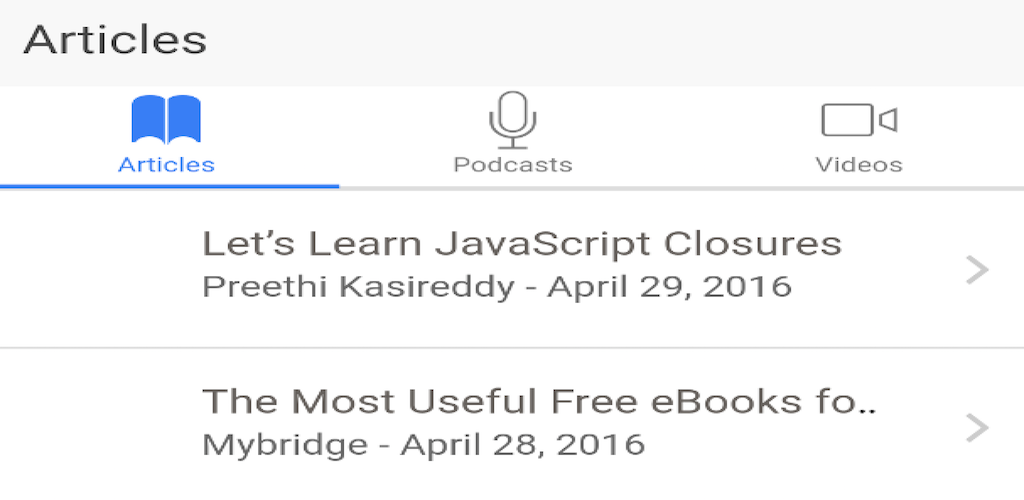
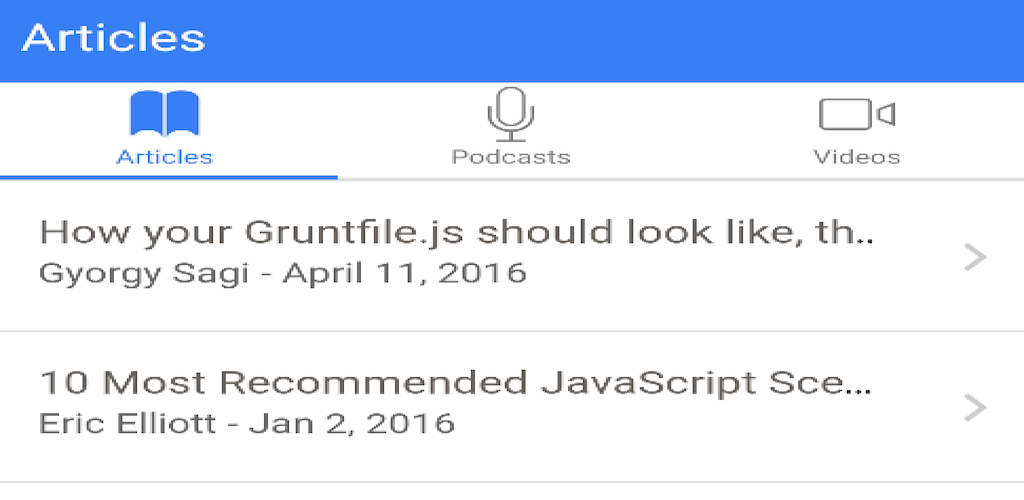
Some cleanup work

diff --git a/www/js/app.js b/www/js/app.js
@@ -56,9 +56,6 @@ angular.module('jsnews', ['ionic', 'ngCordova', 'jsnews.controllers', 'jsnews.se
 .config(function($stateProvider, $urlRouterProvider) {
 
   // Ionic uses AngularUI Router which uses the concept of states
-  // Learn more here: https://github.com/angular-ui/ui-router
-  // Set up the various states which the app can be in.
-  // Each state's controller can be found in controllers.js
   $stateProvider
 
   // setup an abstract state for the tabs directive
@@ -70,46 +67,37 @@ angular.module('jsnews', ['ionic', 'ngCordova', 'jsnews.controllers', 'jsnews.se
 
   // Each tab has its own nav history stack:
 
-  .state('tab.dash', {
-    url: '/dash',
+  .state('tab.articles', {
+    url: '/articles',
     views: {
-      'tab-dash': {
-        templateUrl: 'templates/tab-dash.html',
+      'tab-articles': {
+        templateUrl: 'templates/tab-articles.html',
         controller: 'IndexController'
       }
     }
   })
 
-  .state('tab.chats', {
-      url: '/chats',
+  .state('tab.podcasts', {
+      url: '/podcasts',
       views: {
-        'tab-chats': {
-          templateUrl: 'templates/tab-chats.html',
+        'tab-podcasts': {
+          templateUrl: 'templates/tab-podcasts.html',
           controller: 'IndexController'
         }
       }
     })
-    .state('tab.chat-detail', {
-      url: '/chats/:chatId',
-      views: {
-        'tab-chats': {
-          templateUrl: 'templates/chat-detail.html',
-          controller: 'ChatDetailCtrl'
-        }
-      }
-    })
 
-  .state('tab.account', {
-    url: '/account',
+  .state('tab.videos', {
+    url: '/videos',
     views: {
-      'tab-account': {
-        templateUrl: 'templates/tab-account.html',
+      'tab-videos': {
+        templateUrl: 'templates/tab-videos.html',
         controller: 'IndexController'
       }
     }
   });
 
   // if none of the above states are matched, use this as the fallback
-  $urlRouterProvider.otherwise('/tab/dash');
+  $urlRouterProvider.otherwise('/tab/articles');
 
 });

diff --git a/www/index.html b/www/index.html
@@ -9,11 +9,6 @@
     <link href="lib/ionic/css/ionic.css" rel="stylesheet">
     <link href="css/style.css" rel="stylesheet">
 
-    <!-- IF using Sass (run gulp sass first), then uncomment below and remove the CSS includes above
-    <link href="css/ionic.app.css" rel="stylesheet">
-    -->
-
-    <!-- ionic/angularjs js -->
     <script src="lib/ionic/js/ionic.bundle.js"></script>
     <script src="lib/angular-resource/angular-resource.min.js"></script>
     <script src="lib/ngCordova/dist/ng-cordova.js"></script>
@@ -21,24 +16,19 @@
     <!-- cordova script (this will be a 404 during development) -->
     <script src="cordova.js"></script>
 
-    <!-- your app's js -->
+    <!-- app's js -->
     <script src="js/app.js"></script>
     <script src="js/controllers.js"></script>
     <script src="js/services.js"></script>
   </head>
+
   <body ng-app="jsnews">
-    <!--
-      The nav bar that will be updated as we navigate between views.
-    -->
+
     <ion-nav-bar class="bar bar-header bar-positive bar-stable">
       <ion-nav-back-button>
       </ion-nav-back-button>
     </ion-nav-bar>
-    <!--
-      The views will be rendered in the <ion-nav-view> directive below
-      Templates are in the /templates folder (but you could also
-      have templates inline in this html file if you'd like).
-    -->
+
     <ion-nav-view></ion-nav-view>
 <script>
   console.log("after view");

diff --git a/www/js/controllers.js b/www/js/controllers.js
@@ -32,46 +32,19 @@ angular.module('jsnews.controllers', [])
   );
 
   $scope.articlesSwipeLeft = function () {
-    $state.go('tab.chats');
+    $state.go('tab.podcasts');
   };
 
   $scope.podcastsSwipeLeft = function () {
-    $state.go('tab.account');
+    $state.go('tab.videos');
   };
 
   $scope.podcastsSwipeRight = function () {
-    $state.go('tab.dash');
+    $state.go('tab.articles');
   };
 
   $scope.videosSwipeRight = function () {
-    $state.go('tab.chats');
+    $state.go('tab.podcasts');
   };
 
-})
-
-.controller('DashCtrl', function($scope) {})
-
-.controller('ChatsCtrl', function($scope, Chats) {
-  // With the new view caching in Ionic, Controllers are only called
-  // when they are recreated or on app start, instead of every page change.
-  // To listen for when this page is active (for example, to refresh data),
-  // listen for the $ionicView.enter event:
-  //
-  //$scope.$on('$ionicView.enter', function(e) {
-  //});
-
-  $scope.chats = Chats.all();
-  $scope.remove = function(chat) {
-    Chats.remove(chat);
-  };
-})
-
-.controller('ChatDetailCtrl', function($scope, $stateParams, Chats) {
-  $scope.chat = Chats.get($stateParams.chatId);
-})
-
-.controller('AccountCtrl', function($scope) {
-  $scope.settings = {
-    enableFriends: true
-  };
 });

diff --git a/www/js/services.js b/www/js/services.js
@@ -20,53 +20,4 @@ angular.module('jsnews.services', ['ngResource'])
     this.getVideos = function() {
         return $resource(ApiEndpoint.url + '/videos', null);
     };
-}])
-
-.factory('Chats', function() {
-  // Might use a resource here that returns a JSON array
-
-  // Some fake testing data
-  var chats = [{
-    id: 0,
-    name: 'Ben Sparrow',
-    lastText: 'You on your way?',
-    face: 'img/ben.png'
-  }, {
-    id: 1,
-    name: 'Max Lynx',
-    lastText: 'Hey, it\'s me',
-    face: 'img/max.png'
-  }, {
-    id: 2,
-    name: 'Adam Bradleyson',
-    lastText: 'I should buy a boat',
-    face: 'img/adam.jpg'
-  }, {
-    id: 3,
-    name: 'Perry Governor',
-    lastText: 'Look at my mukluks!',
-    face: 'img/perry.png'
-  }, {
-    id: 4,
-    name: 'Mike Harrington',
-    lastText: 'This is wicked good ice cream.',
-    face: 'img/mike.png'
-  }];
-
-  return {
-    all: function() {
-      return chats;
-    },
-    remove: function(chat) {
-      chats.splice(chats.indexOf(chat), 1);
-    },
-    get: function(chatId) {
-      for (var i = 0; i < chats.length; i++) {
-        if (chats[i].id === parseInt(chatId)) {
-          return chats[i];
-        }
-      }
-      return null;
-    }
-  };
-});
+}]);

diff --git a/www/templates/tabs.html b/www/templates/tabs.html
@@ -6,18 +6,18 @@ navigation history that also transitions its views in and out.
 <ion-tabs class="tabs-icon-top tabs-color-active-positive">
 
   <!-- Articles Tab -->
-  <ion-tab title="Articles" icon-off="ion-ios-book-outline" icon-on="ion-ios-book" href="#/tab/dash">
-    <ion-nav-view name="tab-dash"></ion-nav-view>
+  <ion-tab title="Articles" icon-off="ion-ios-book-outline" icon-on="ion-ios-book" href="#/tab/articles">
+    <ion-nav-view name="tab-articles"></ion-nav-view>
   </ion-tab>
 
   <!-- Podcasts Tab -->
-  <ion-tab title="Podcasts" icon-off="ion-ios-mic-outline" icon-on="ion-ios-mic" href="#/tab/chats">
-    <ion-nav-view name="tab-chats"></ion-nav-view>
+  <ion-tab title="Podcasts" icon-off="ion-ios-mic-outline" icon-on="ion-ios-mic" href="#/tab/podcasts">
+    <ion-nav-view name="tab-podcasts"></ion-nav-view>
   </ion-tab>
 
   <!-- Videos Tab -->
-  <ion-tab title="Videos" icon-off="ion-ios-videocam-outline" icon-on="ion-ios-videocam" href="#/tab/account">
-    <ion-nav-view name="tab-account"></ion-nav-view>
+  <ion-tab title="Videos" icon-off="ion-ios-videocam-outline" icon-on="ion-ios-videocam" href="#/tab/videos">
+    <ion-nav-view name="tab-videos"></ion-nav-view>
   </ion-tab>
 
 

diff --git a/www/templates/tab-podcasts.html b/www/templates/tab-podcasts.html
@@ -11,17 +11,5 @@
         <i class="icon ion-chevron-right icon-accessory"></i>
       </ion-item>
     </ion-list>
-    <!--<ion-list>
-      <ion-item class="item-remove-animate item-avatar item-icon-right" ng-repeat="chat in chats" type="item-text-wrap" href="#/tab/chats/{{chat.id}}">
-        <img ng-src="{{chat.face}}">
-        <h2>{{chat.name}}</h2>
-        <p>{{chat.lastText}}</p>
-        <i class="icon ion-chevron-right icon-accessory"></i>
-
-        <ion-option-button class="button-assertive" ng-click="remove(chat)">
-          Delete
-        </ion-option-button>
-      </ion-item>
-    </ion-list>-->
   </ion-content>
 </ion-view>
